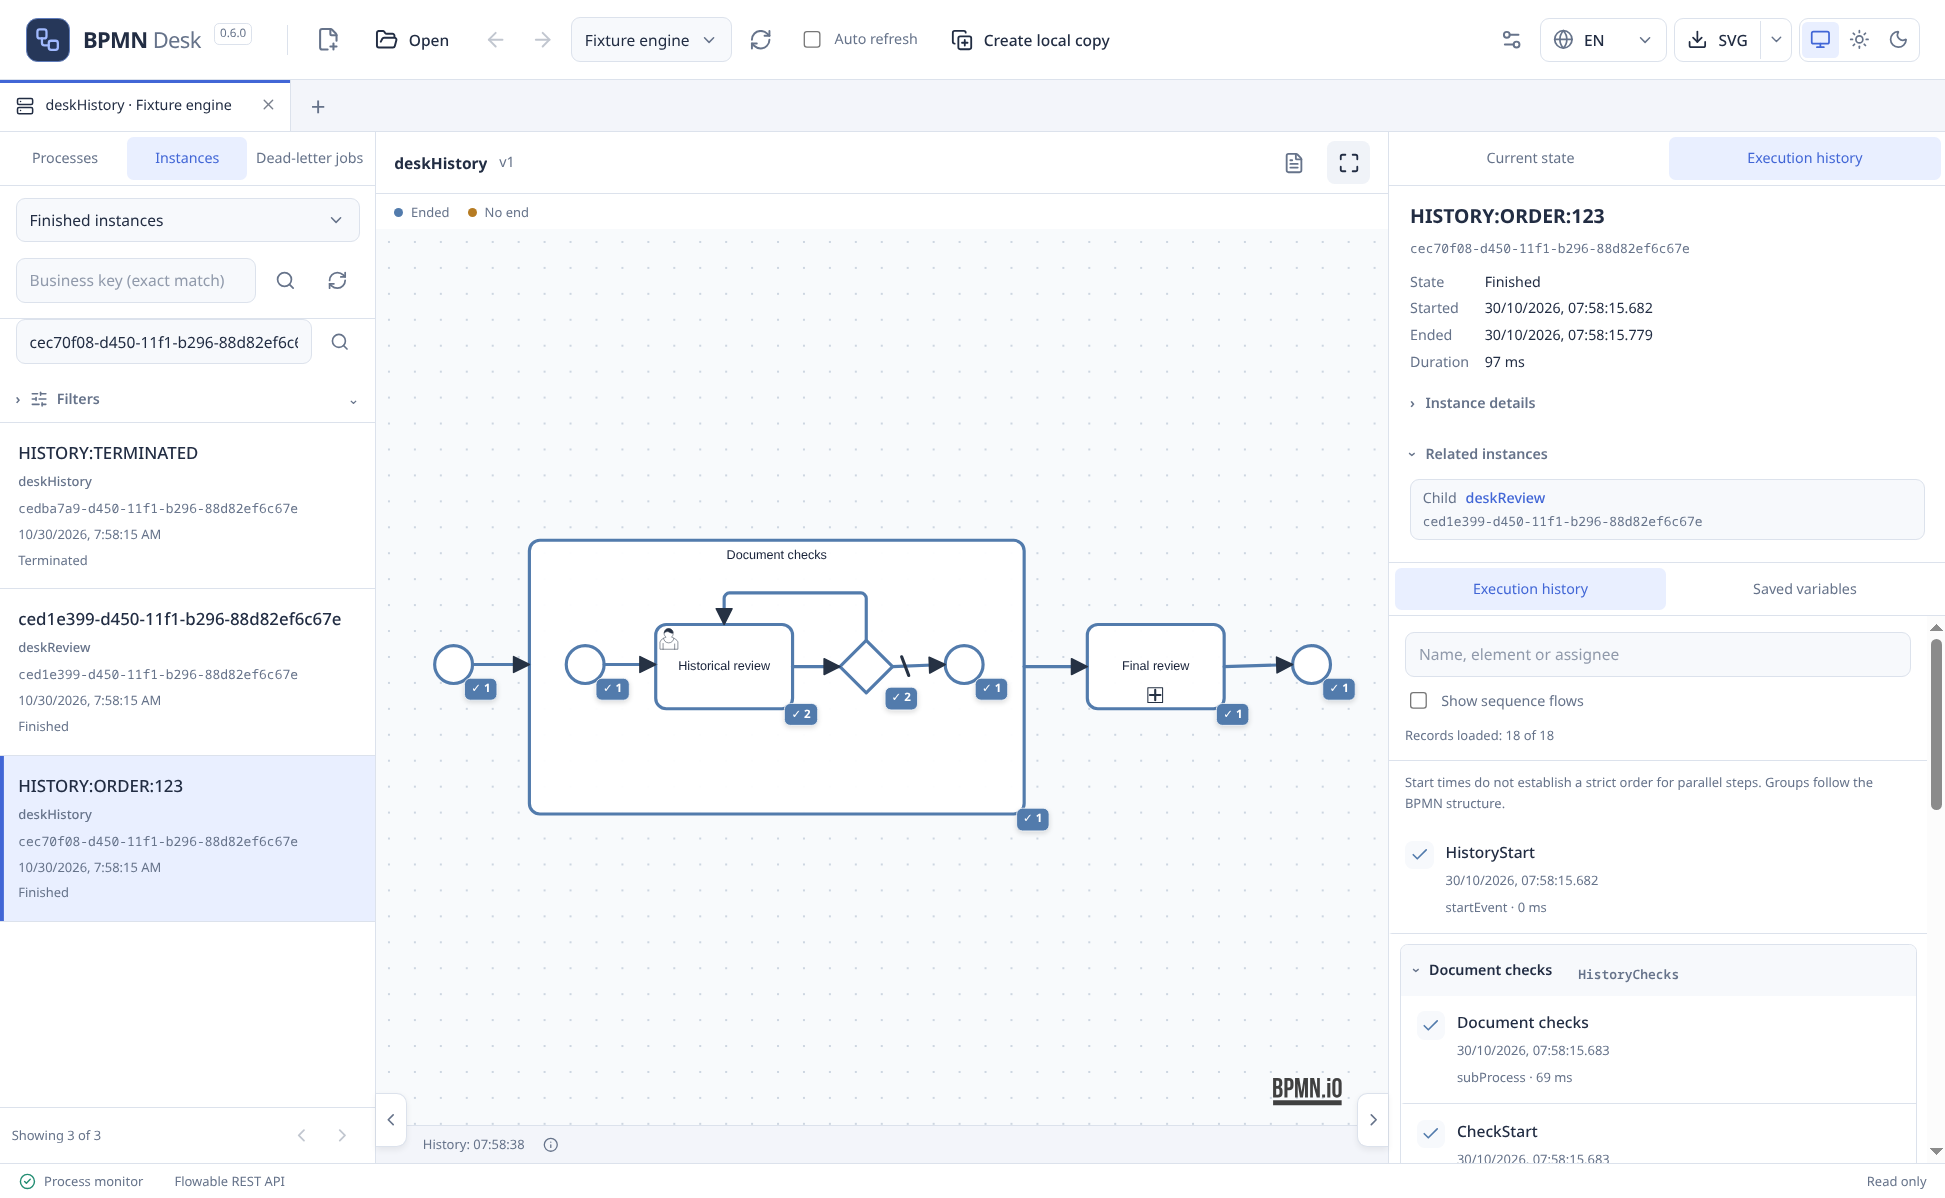
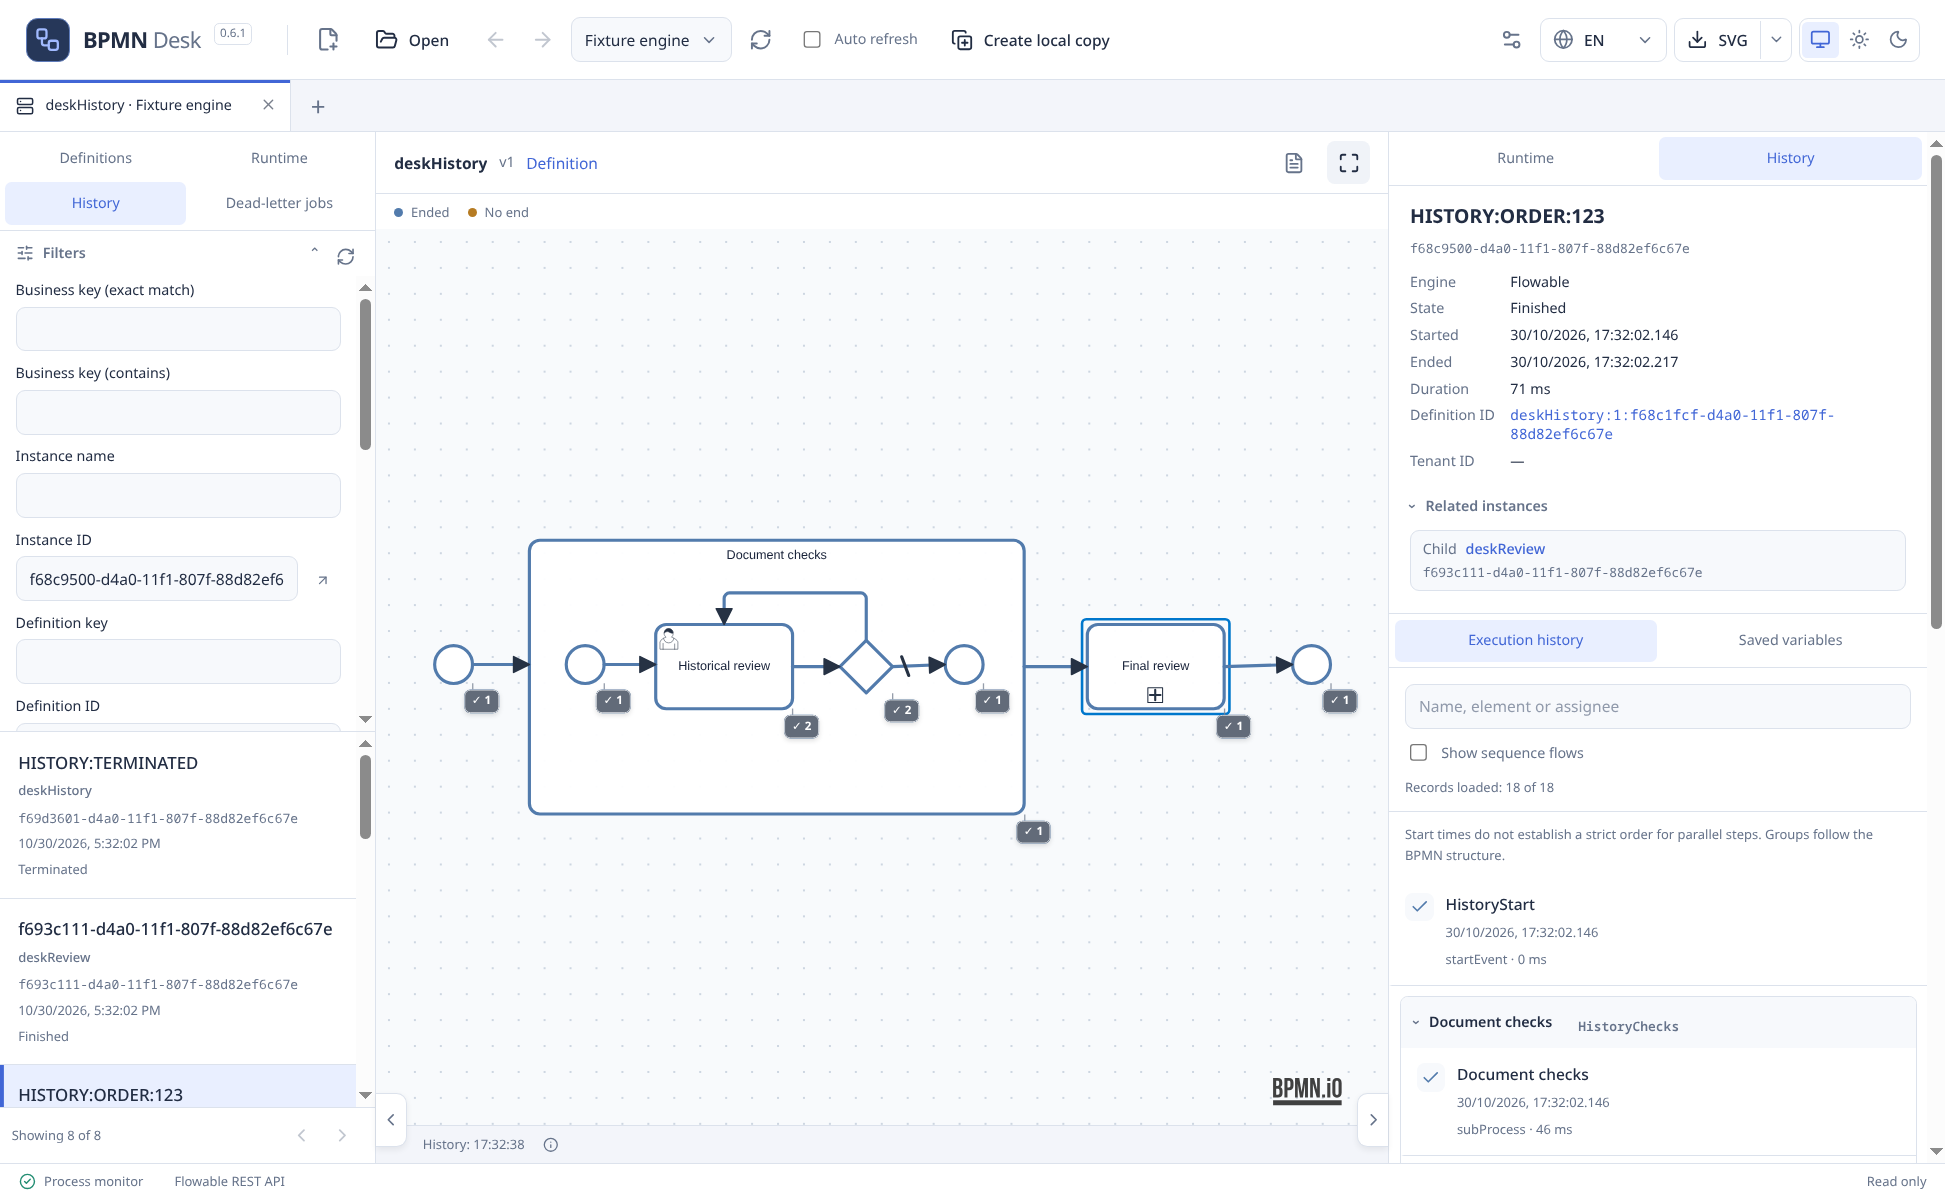
Prepare version 0.6.1 monitor fixes release

diff --git a/docs/releases/0.6.1.md b/docs/releases/0.6.1.md
@@ -1,0 +1,12 @@
+# BPMN Desk 0.6.1
+
+- **Единые каталоги и фильтры монитора.** Определения по умолчанию показывают последние версии. Текущие экземпляры и история разделены на каталоги с компактными сворачиваемыми фильтрами и снимаемыми чипами. Переход к экземплярам определения задаёт один общий контекст отдельного цвета для Runtime, History и dead-letter; его снятие убирает контекст сразу везде.
+- **Сохраняемый переключатель сводки с приоритетом схемы.** Выделенная кнопка управляет сводкой во всём приложении и помнит состояние после перезапуска. Чтение начинается после отображения выбранной схемы, использует таймаут API подключения и участвует в авторефреше. Неизменившиеся данные сохраняют выбор, масштаб, прокрутку и DOM бейджей; обновление настроек подключения также сохраняет холст.
+- **История рядом с runtime в сводке определения.** Подробности элемента разделены на вкладки Runtime и History. Сводка читает до 100 executions, 100 dead-letter jobs и 1000 свежих исторических шагов, независимо считая разные экземпляры каждого источника. Неполные значения оформлены как `17+`; нижняя граница поясняется в подсказке. Ошибка одного источника не скрывает остальные.
+- **Читаемые бейджи на плотных схемах.** Один бейдж объединяет серую историю, зелёный runtime и красные ошибки секциями с зигзагами. Известный runtime-счётчик сохраняется рядом с ошибками. Метки автоматически обходят соседние фигуры, подписи и другие бейджи; тонкие линии показывают принадлежность элементам. SVG/PNG сохраняют секции, позиции и линии привязки.
+- **Понятнее подробности и работа с журналом.** Правая панель определения сохраняет место и показывает плейсхолдер без выбранного элемента. Общие поля экземпляра имеют единый порядок в Runtime и History, ID определения ведёт к точной версии. Вся панель прокручивается целиком, не сжимая журнал в узкую вложенную область. Раскрытие записи журнала оставляет остальные записи видимыми; выбор элемента схемы по-прежнему фильтрует его историю.
+- **Выделение и XML.** Выбранный элемент монитора получает заметную рамку в стиле редактора. XML монитора доступен с подсветкой и поиском только для чтения; контролы замены скрыты. Переходы между определением и экземплярами находятся рядом с названием и версией схемы, подсказка сводки больше не дублирует легенду холста.
+
+Сводка использует ограниченные выборки, не является полным аудитом или точным глобальным количеством экземпляров. Исторические счётчики могут пересекаться с runtime, зафиксированное окончание не доказывает успех. На плотных схемах линии привязки бейджей могут пересекать стрелки. Данные движка не изменяются.
+
+AppImage, Windows installer/portable и `SHA256SUMS` собирает и проверяет GitHub Actions. Windows EXE не подписаны; ручная приёмка установщика не подтверждена. macOS не поставляется.

diff --git a/docs/validation-monitor-ux.md b/docs/validation-monitor-ux.md
@@ -1,8 +1,14 @@
 # Локальная проверка UX монитора после 0.6.0
 
-Дата: 2026-10-30. Доработки выполнены локально по отмашке пользователя; push, тег и новый релиз не запрошены. Матрица опубликованной 0.6.0 остаётся в [протоколе релиза](validation.md).
+Дата: 2026-10-30. Доработки выполнены локально по отмашке пользователя и проверены им вручную. Затем пользователь разрешил push и патч-релиз 0.6.1; идёт подготовка публикации. Записи ниже сохраняют результаты отдельных локальных итераций до этого разрешения. Итоговая матрица и опубликованные артефакты фиксируются в [протоколе релиза](validation.md).
 
 Результат: [каталоги и терминология](adr/0033-monitor-catalog-search.md), [автосводка](adr/0034-automatic-summary-status.md), [уточнения фильтров, вкладок и прокрутки](adr/0035-monitor-filter-tabs-and-panel-scroll.md). Обратная связь и решения записаны в [бэклоге](backlog.md).
+
+## Подготовка патч-релиза 0.6.1
+
+Пользователь подтвердил ручную проверку и разрешил публикацию. Для версии 0.6.1 повторены `npm run check` — 126 unit-тестов в 32 файлах, strict TypeScript и ESLint; `npm run package:linux` — AppImage x86_64; полный `npm run test:e2e` — 107 passed, 19 ожидаемых skip (5,3 минуты), включая две проверки этой AppImage; полный `npm run test:runtime` — 49 passed (3,4 минуты), включая все 18 сценариев отдельного Flowable/H2. Официальные Flowable converter 7.2 и Camunda Model API 7.24 успешно проверили экспорты UI. Все команды завершились без ошибок.
+
+README обновлены до 0.6.1, снимки монитора и истории пересняты на оригинальных MIT-схемах стенда. GitHub Markdown API сохранил галерею обеих README и русский перевод release notes в закрытом details. Нативная проверка Windows и результаты релизного CI фиксируются отдельно в [протоколе выпуска](validation.md); локальные Linux-проверки их не заменяют.
 
 ## Бейджи у соседних граничных событий
 

diff --git a/.github/release-notes/0.6.1.md b/.github/release-notes/0.6.1.md
@@ -1,0 +1,12 @@
+# BPMN Desk 0.6.1
+
+- **Consistent monitor catalogs and filters.** Definitions show the latest versions by default. Runtime and History have separate catalogs with compact collapsible filters and removable chips. Opening instances from a definition sets one shared, distinctively colored context across Runtime, History and dead-letter jobs; removing it clears that context everywhere.
+- **Persistent summary toggle with diagram priority.** The highlighted toolbar button controls summaries across the app and remembers its state after restart. Summaries start after the selected diagram is displayed, use the connection's API timeout and participate in auto refresh. Unchanged data preserves diagram selection, zoom, scroll positions and badge DOM; refreshing connection settings preserves the canvas too.
+- **History alongside runtime in definition summaries.** Element details have Runtime and History tabs. Summaries read up to 100 executions, 100 dead-letter jobs and 1000 recent historic activities, counting distinct instances independently for each source. Partial counts use `17+`; the tooltip explains the lower bound. Errors in one source leave the others available.
+- **Readable badges on dense diagrams.** One badge combines grey History, green Runtime and red dead-letter sections with zigzag separators. A known runtime count remains visible alongside failures. Badges automatically avoid nearby shapes, labels and other badges; thin leaders identify their elements. SVG/PNG exports preserve the sections, positions and leaders.
+- **Cleaner details and history interaction.** The definition details panel stays in place and shows a selection placeholder when empty. Instance fields use the same order in Runtime and History, with a link to the exact definition. The whole details panel scrolls instead of squeezing the journal into a small nested scroll area. Expanding a journal entry keeps other entries visible; selecting a diagram element still filters its history.
+- **Selection and XML fixes.** Selected monitor elements have a clear outline consistent with the editor. Monitor XML has syntax highlighting and read-only search; replacement controls stay hidden. Definition/instance navigation sits beside the diagram name and version, and summary tooltips no longer repeat the canvas legend.
+
+Summaries are bounded samples, not a full audit or an exact global instance total. History and runtime counts may overlap, and recorded ends do not establish success. Badge leaders may cross sequence flows on dense diagrams. No engine data is modified.
+
+Linux AppImage, Windows installer/portable and `SHA256SUMS` are built and tested by GitHub Actions. Windows executables are unsigned; manual installer acceptance is not confirmed. macOS is not available.

diff --git a/docs/backlog.md b/docs/backlog.md
@@ -1,6 +1,6 @@
 # Бэклог
 
-Актуальный следующий план — **MON-09–MON-14** в конце документа. Он согласован, но реализация **ожидает отдельной отмашки пользователя**. Первые два раздела описывают уже выполненные итерации.
+Пункты **MON-01–MON-14** и последующие уточнения реализованы и проверены пользователем; разрешён патч-релиз **0.6.1**. Ниже сохранены пожелания и решения выполненных итераций. [Локальные проверки](validation-monitor-ux.md) · [Результаты выпуска](validation.md).
 
 ## UX монитора Flowable после 0.6.0
 
@@ -125,7 +125,7 @@
 
 ## Следующая итерация монитора — согласованный план
 
-Дата согласования: 2026-10-30. **Статус: выполнено локально по отмашке пользователя; ожидается ручная проверка.** Push и релиз требуют отдельного запроса. Согласованное поведение MON-09–MON-14 реализовано нижеописанными решениями; итоговые проверки фиксируются в `docs/validation-monitor-ux.md`.
+Дата согласования: 2026-10-30. **Статус: реализовано и проверено пользователем; разрешена публикация 0.6.1.** Согласованное поведение MON-09–MON-14 реализовано нижеописанными решениями; локальные проверки фиксируются в `docs/validation-monitor-ux.md`, результаты выпуска — в `docs/validation.md`.
 
 Решения: [ADR 0036](adr/0036-shared-definition-context.md), [ADR 0037](adr/0037-global-summary-and-history.md). Они заменяют независимые копии контекста, настройку автосводки в подключении и фиксированный бюджет 8 секунд из ADR 0034–0035.
 

diff --git a/README.ru.md b/README.ru.md
@@ -56,7 +56,7 @@ Linux и Windows · локальные файлы · открытый исход
 
 ```bash
 chmod +x BPMN-Desk-*.AppImage
-./BPMN-Desk-0.6.0-x86_64.AppImage
+./BPMN-Desk-0.6.1-x86_64.AppImage
 ```
 
 Без FUSE: `--appimage-extract-and-run` первым аргументом. Windows EXE не подписаны; macOS пока не поставляется.

diff --git a/README.md b/README.md
@@ -56,7 +56,7 @@ The [latest release](https://github.com/michaelbrylevskii/bpmn-desk/releases/lat
 
 ```bash
 chmod +x BPMN-Desk-*.AppImage
-./BPMN-Desk-0.6.0-x86_64.AppImage
+./BPMN-Desk-0.6.1-x86_64.AppImage
 ```
 
 Without FUSE, use `--appimage-extract-and-run` as the first argument. Windows executables are unsigned; macOS is not available yet.
